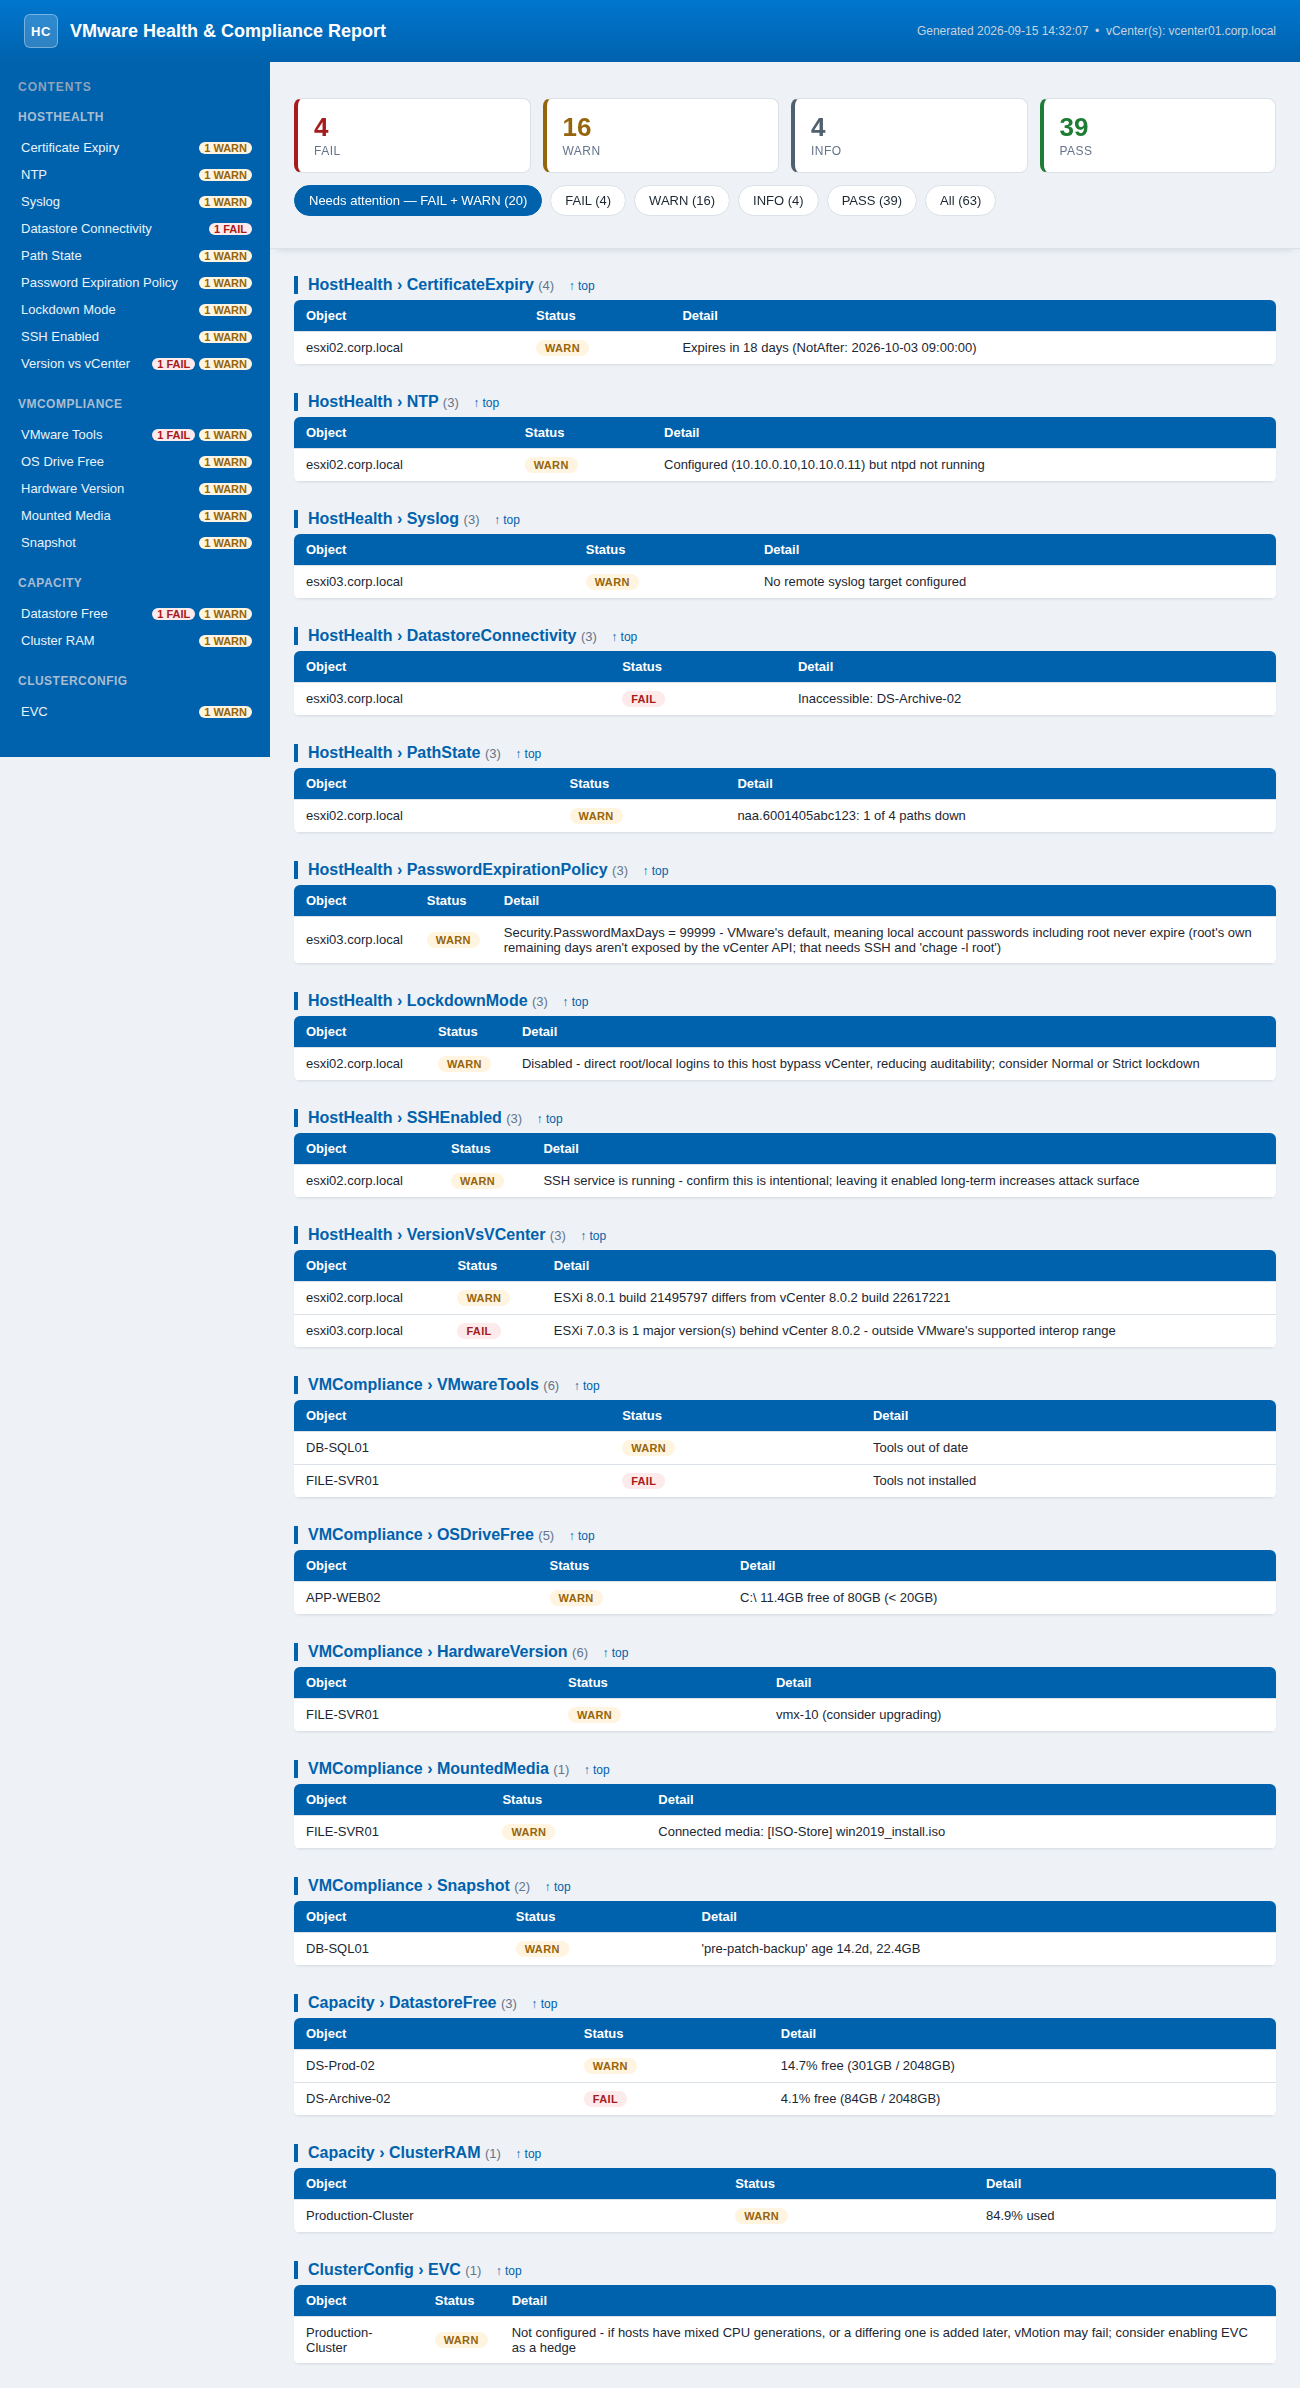
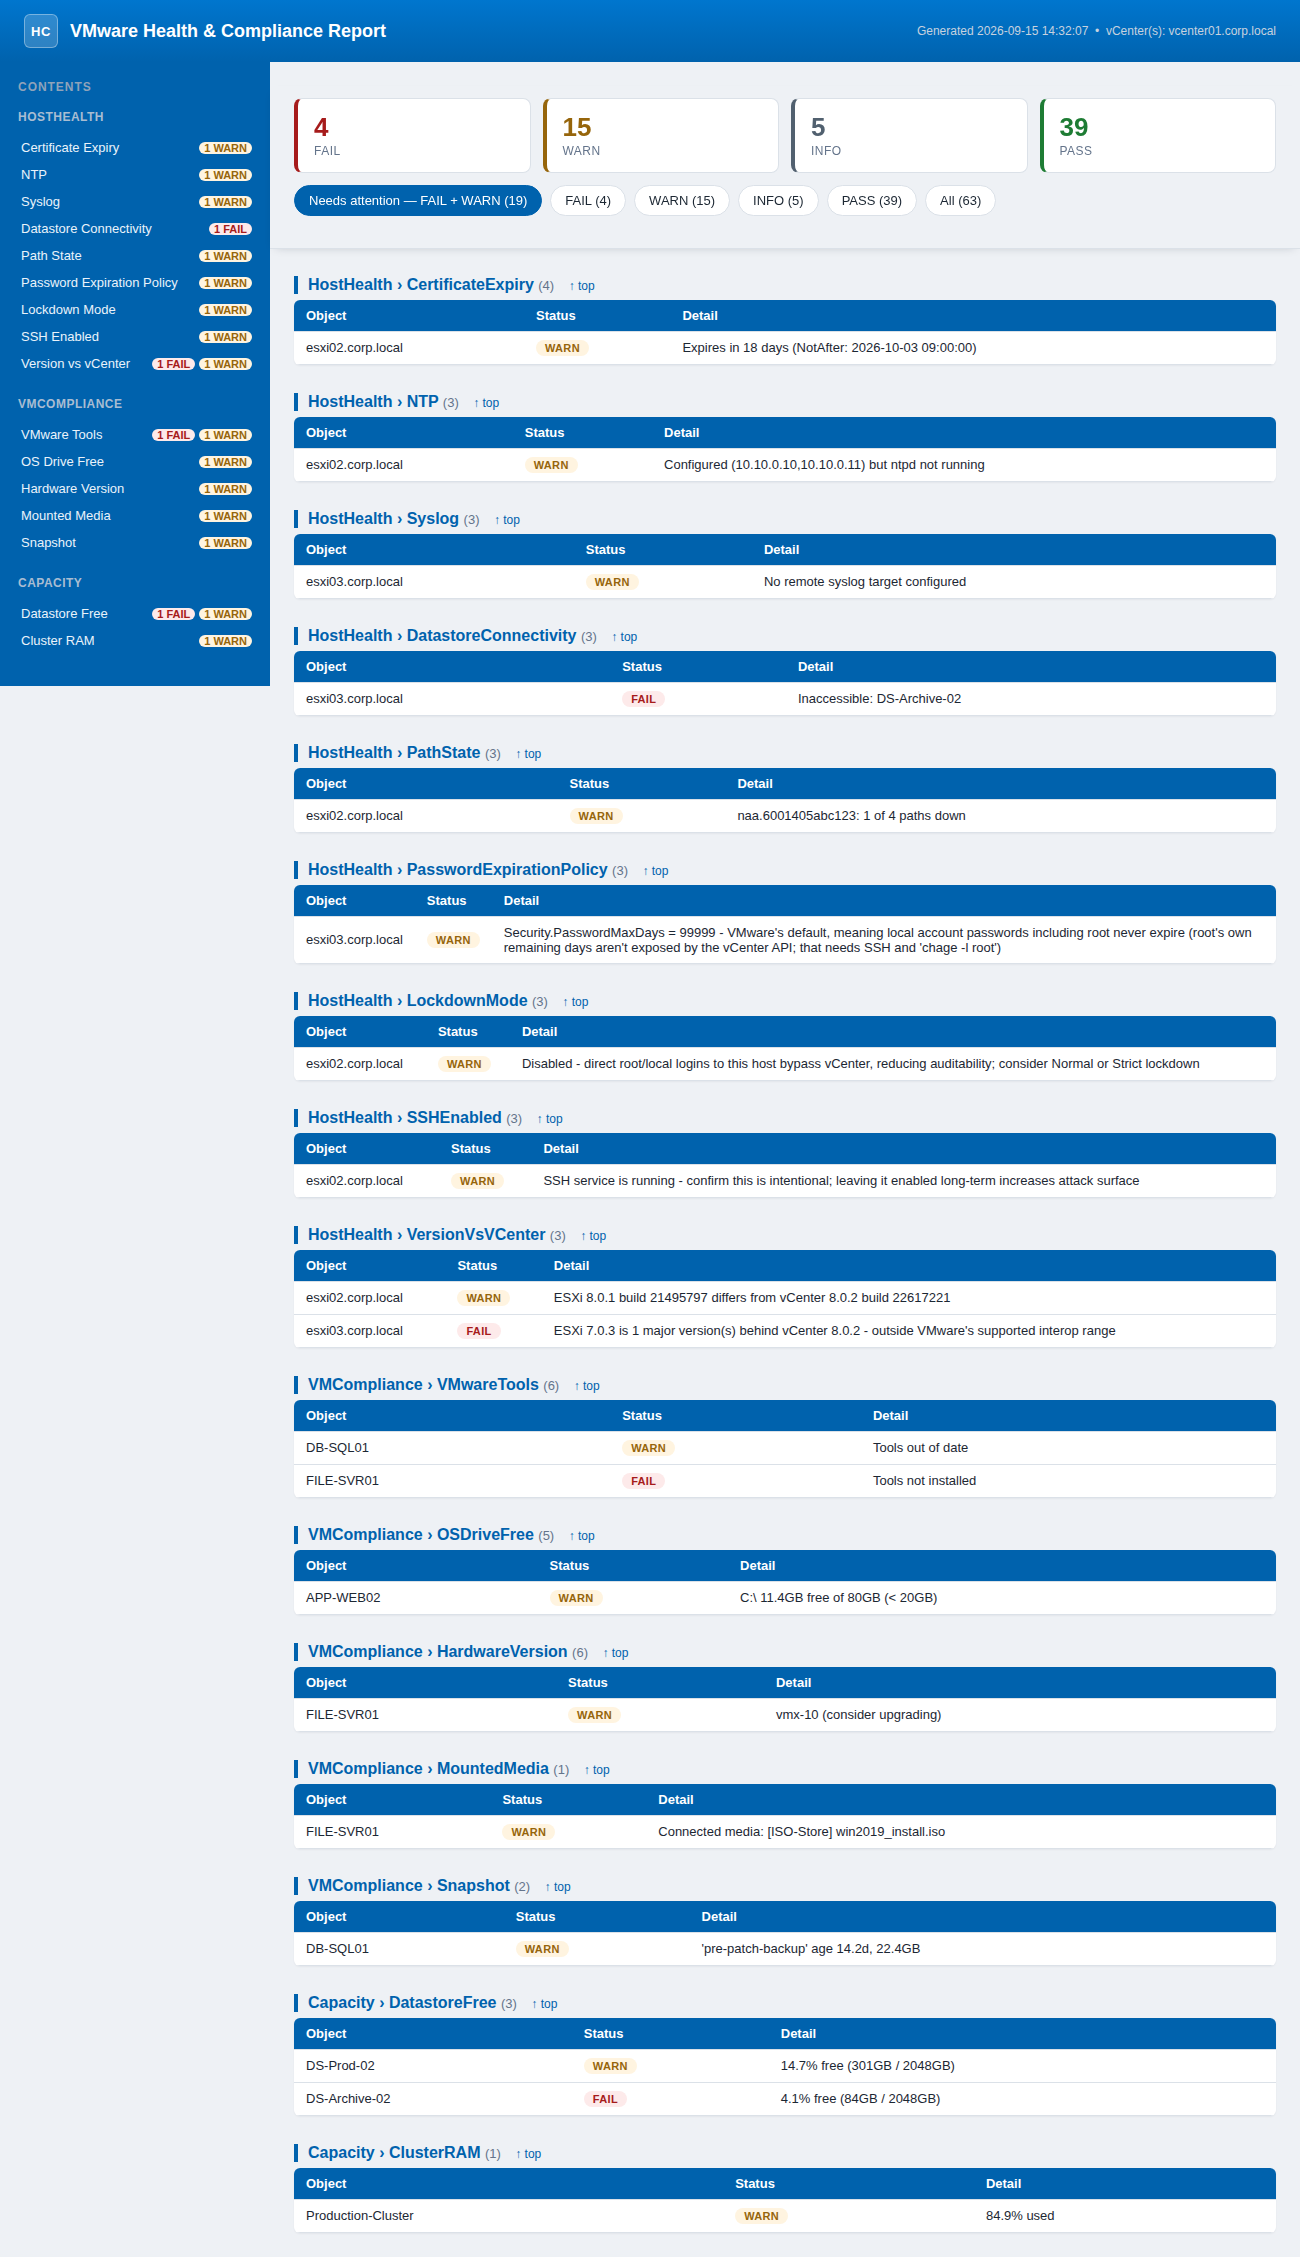
EVC is context, not a finding: report it as INFO
Reported: EVC reads as information rather than an issue.

Agreed, and this reverses an earlier call in this repo's history - EVC was
moved from INFO to WARN on request, before there was a real estate to look
at. Seen across one, every cluster carried an item in the "needs attention"
view that nobody was ever going to action. Plenty of estates run no EVC by
design, and vCenter can't tell us whether a given cluster's hosts actually
span CPU generations, so "not configured" is context rather than a fault.

It is still surfaced, with the same explanation of what EVC does and why it
is worth enabling as a hedge - it just sits behind the INFO filter with
Uptime and the other background detail instead of competing with real
findings.

"Off" and "couldn't read it" remain different statements: both INFO, but
with different details. The two assertions that keep them apart now check
the DETAIL rather than the status, since asserting on status alone would
pass even if the code conflated them.

47 assertions pass; script parses and stays ASCII/no-BOM; the offline
approximation of the analyzer rules that have bitten this repo is clean.
README and screenshots updated - EVC now drops out of the default sidebar
view, which is the point.

Claude-Session: https://claude.ai/code/session_01AsAgD7afb9opUeRPsVaJP6

diff --git a/README.md b/README.md
@@ -152,33 +152,24 @@ does and what leaving it off costs you, rather than reporting a bare acronym:
   rebalancing waits on someone approving them.
 - **Host count** — `WARN` on a single-host cluster, where HA has nowhere to fail over.
 
-**EVC (Enhanced vMotion Compatibility).** `PASS` with the cluster's current EVC mode
-(e.g. `intel-broadwell`) if one is set, `WARN` if `Not configured`. EVC masks each
-host's CPU down to a common baseline instruction set so a running VM can vMotion
-between hosts with different CPU generations without the guest OS seeing the CPU
-change mid-flight — without it, migrating to a host with an older/different feature
-set can crash the guest or vMotion can refuse outright. The script can't tell from
-vCenter alone whether a cluster's hosts actually span multiple CPU generations, but
-`Not configured` is flagged `WARN` anyway (like the other cluster-config checks,
-which also flag things that may be intentional) since enabling EVC is generally
-recommended even for same-generation clusters, as a hedge in case a differing host
-is added later.
+**EVC (Enhanced vMotion Compatibility).** Reported as `INFO`, not a finding.
+`PASS` with the cluster's current mode (e.g. `intel-broadwell`) when one is set;
+`INFO` when it isn't. EVC masks each host's CPU down to a common baseline
+instruction set so a running VM can vMotion between hosts with different CPU
+generations without the guest OS seeing the CPU change mid-flight — without it,
+migrating to a host with an older/different feature set can crash the guest or
+vMotion can refuse outright.
 
-**Guest drive thresholds are percentages.** `-OSDriveFreeWarnPercent` (default
-15) and `-DataDriveFreeWarnPercent` (default 10) flag a volume by how full it
-is, not by absolute GB. 20GB free is comfortable on a 1TB data disk and nearly
-full on a 40GB system disk, so a single GB threshold either cried wolf on large
-volumes or stayed silent on small ones. The detail still shows the GB figures
-for context: `C:\ 12.3% free (9.8GB of 80GB)`.
+It stays out of the "needs attention" view on purpose: plenty of estates run no
+EVC by design, and the script can't tell from vCenter alone whether a cluster's
+hosts actually span CPU generations. Flagging it put an item on every cluster
+that nobody was ever going to action. It's still worth enabling as a hedge
+before you add a host of a differing generation — click `INFO` to see where it's
+off.
 
-**Local account password expiration.** Reads `Security.PasswordMaxDays`, the
-host-wide maximum age a local password may reach. `WARN` at `99999` — VMware's
-shipped default and its "never expires" sentinel rather than an age anyone chose
-— or above `-PasswordMaxDaysWarn` (default 365); `PASS` below that; `INFO` if the
-host doesn't report the setting. A specific account's actual days-until-expiry
-(root's included) isn't exposed by the vCenter API at all — that lives in the
-host's shadow file and needs SSH and `chage -l root` — so the detail says so
-rather than implying the report has checked it.
+A cluster whose EVC mode vCenter doesn't report is also `INFO`, with a
+different detail (`not reported by vCenter`), so "off" and "couldn't tell" are
+never conflated.
 
 **ESXi build vs. vCenter build.** VMware only supports ESXi hosts within roughly two
 major versions behind vCenter, and a host *newer* than vCenter is unsupported outright
